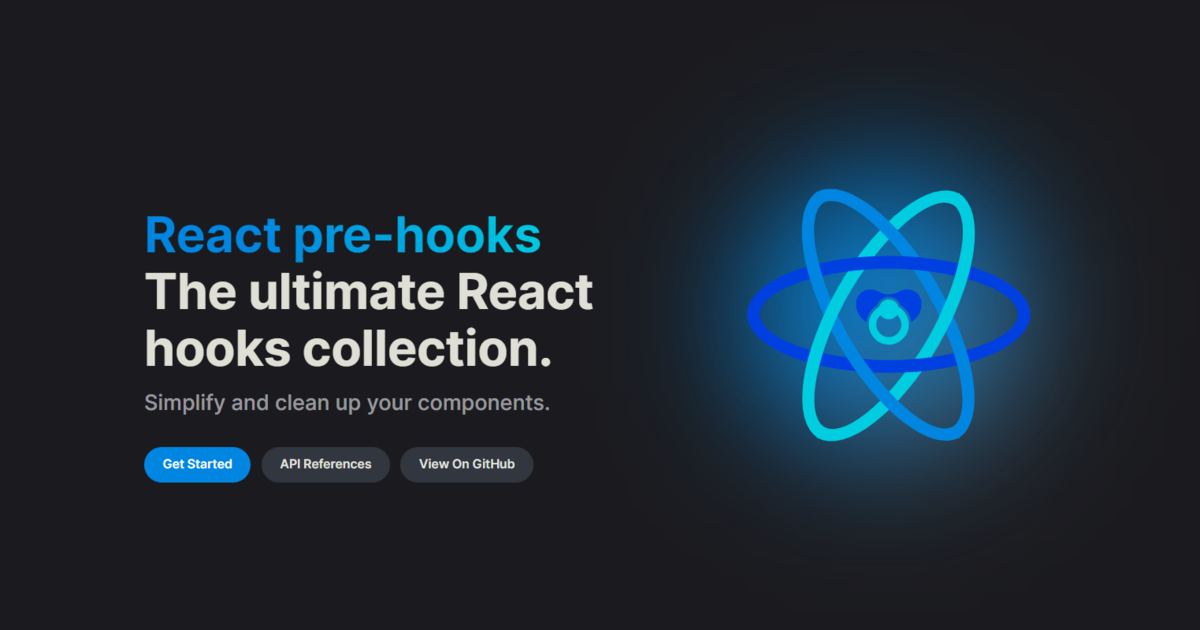
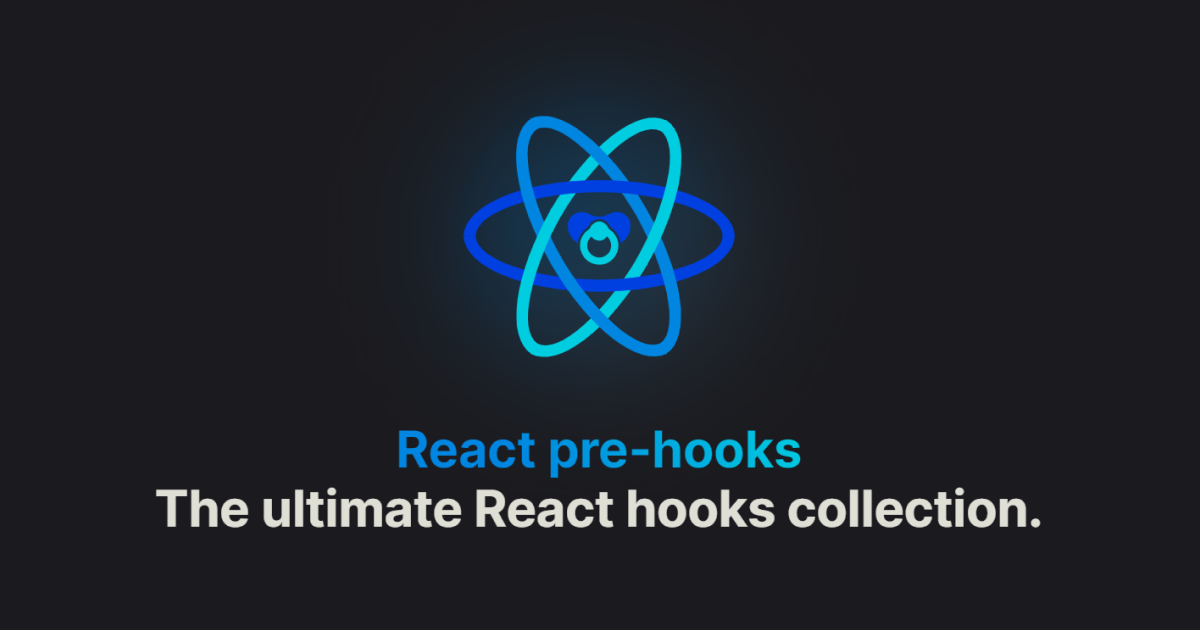
docs: update the OG image

Changed region(s): [[0.1233, 0.1508, 0.8942, 0.8444]]

diff --git a/docs/.vitepress/theme/globals.css b/docs/.vitepress/theme/globals.css
@@ -11,16 +11,16 @@
   );
 
   --vp-button-brand-bg: var(--vp-c-brand-1);
-  --vp-home-hero-image-background-image: linear-gradient(135deg, #0086e06f 39%, #fff5);
-  --vp-home-hero-image-filter: blur(40px);
-}
-
-.dark:root {
   --vp-home-hero-image-background-image: linear-gradient(135deg, #0086e0f2 39%, #fff5);
+  --vp-home-hero-image-filter: blur(40px);
 }
 
 html {
   scrollbar-gutter: stable;
+}
+
+.image-bg {
+  opacity: 0.3;
 }
 
 ::selection {
